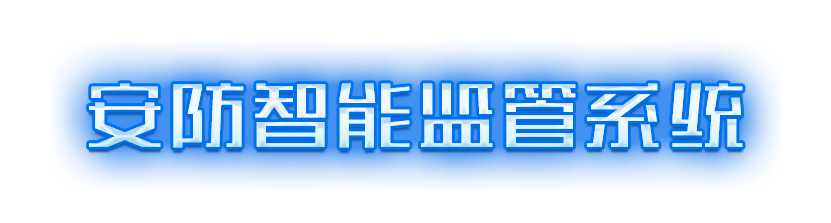
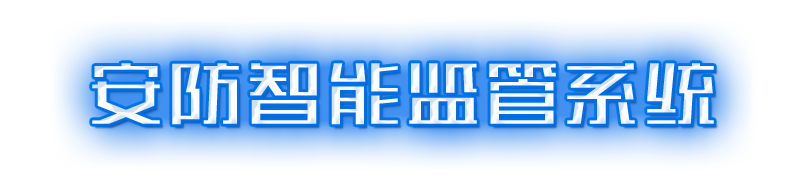
修改 登录界面4次变更

diff --git a/less/login.less b/less/login.less
@@ -1,6 +1,5 @@
 .layui-bg-cyan {
-    background: url(../img/b2.jpg);
-    background-size:cover;
+    background: url(../img/bg1.jpg) no-repeat;
 }
 .login{
 	height: 300px;
@@ -14,6 +13,7 @@
     z-index: 99;
     .btitle{
 	    margin-left: -105%;
+        margin-bottom: 15%;
     }
     .layui-input{
 	    display: block;

diff --git a/css/login.css b/css/login.css
@@ -1,6 +1,5 @@
 .layui-bg-cyan {
-  background: url(../img/b2.jpg);
-  background-size: cover;
+  background: url(../img/bg1.jpg) no-repeat;
 }
 .login {
   height: 300px;
@@ -15,6 +14,7 @@
 }
 .login .btitle {
   margin-left: -105%;
+  margin-bottom: 15%;
 }
 .login .layui-input {
   display: block;
